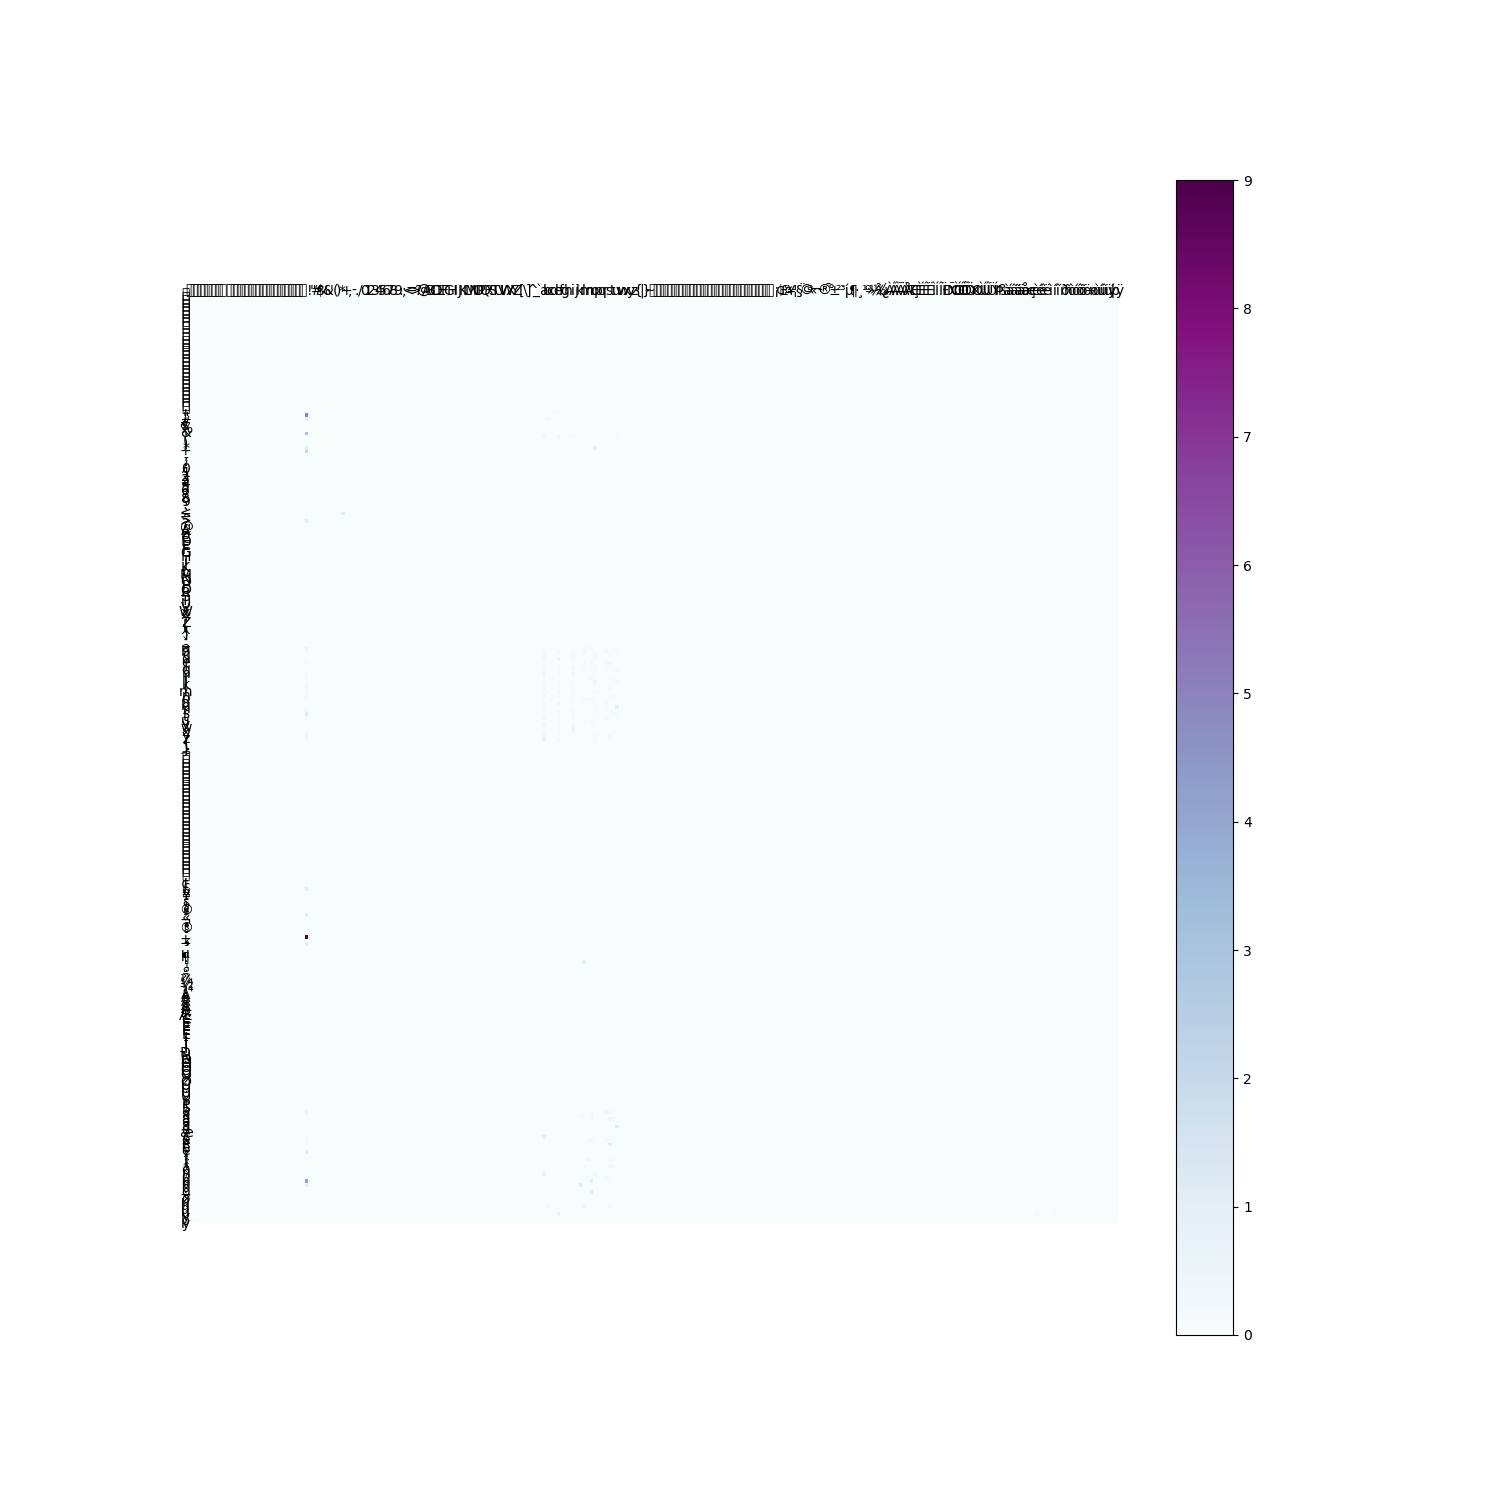
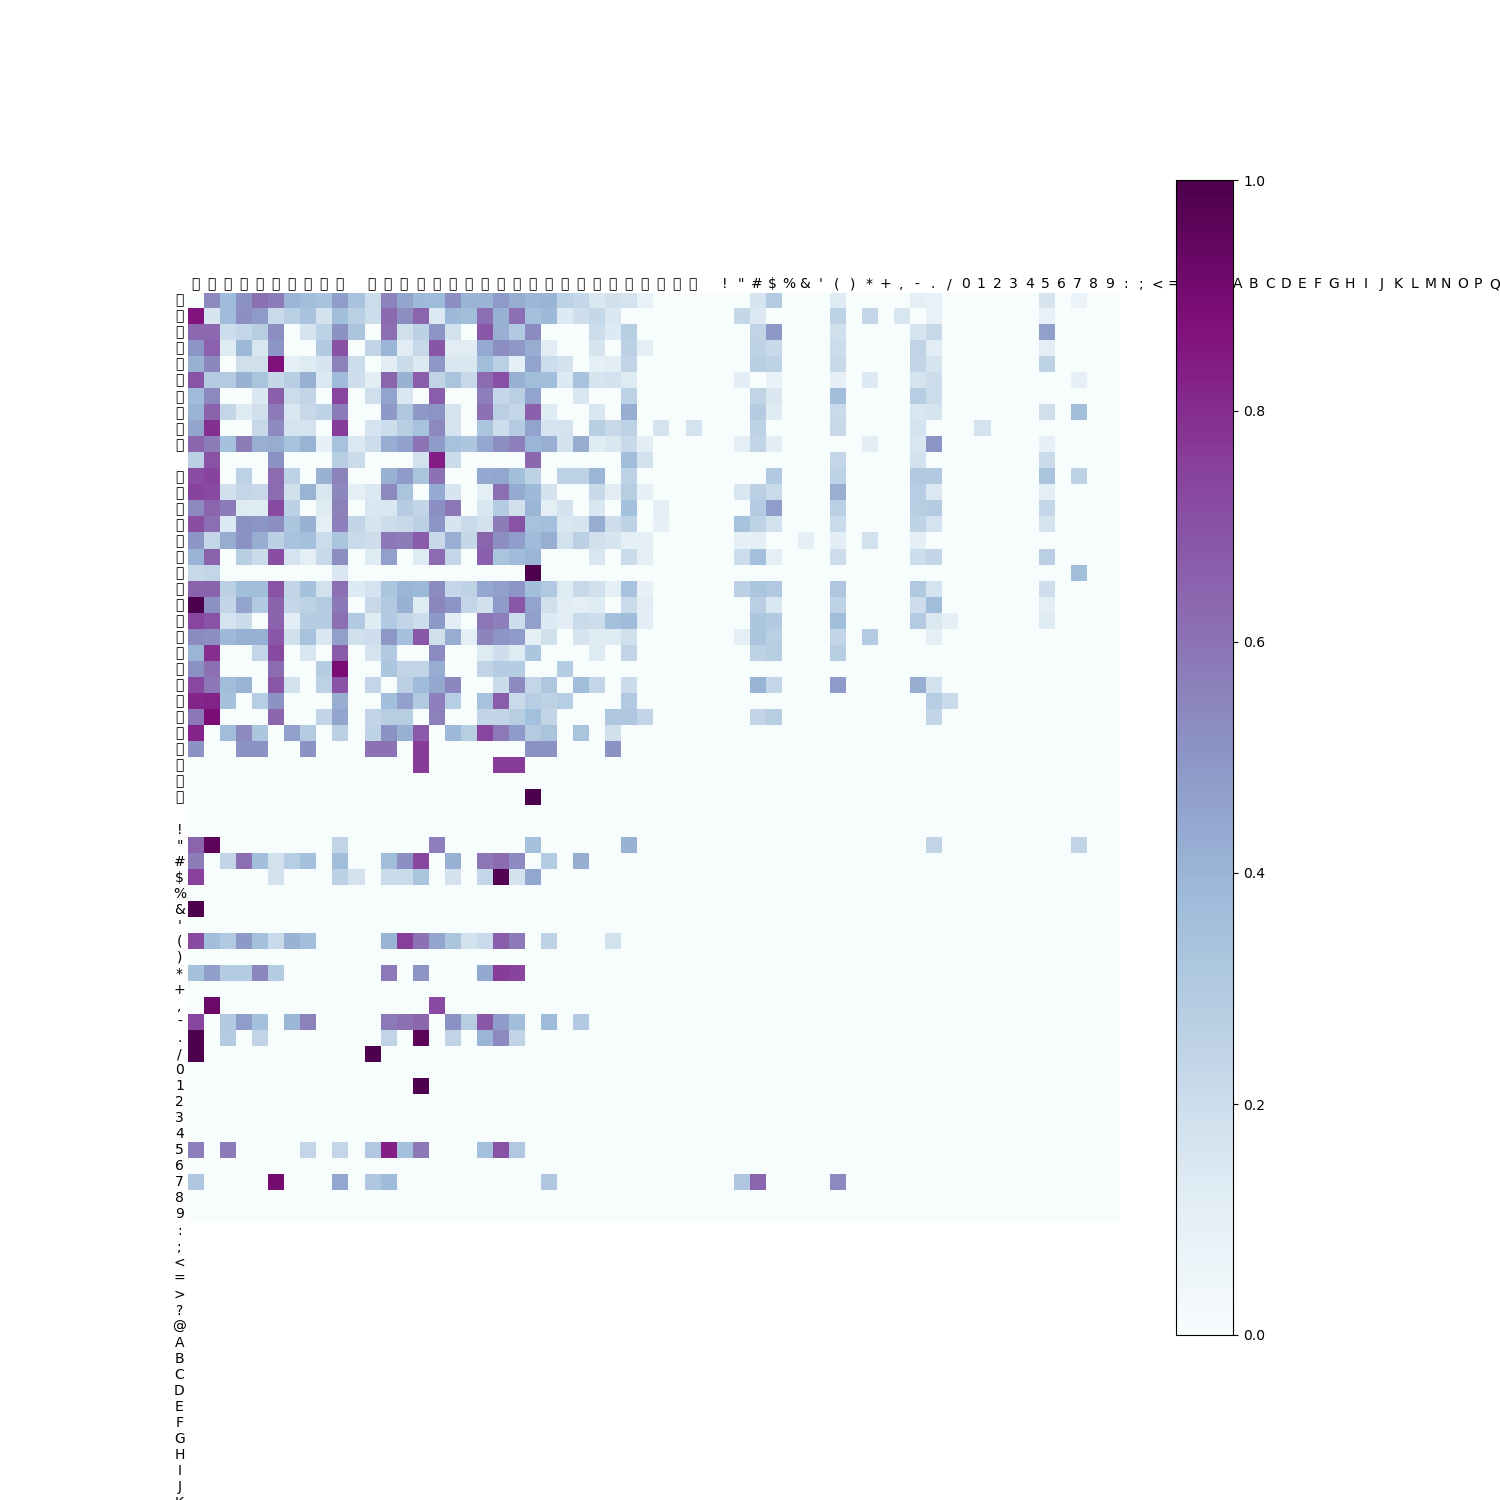
zoom

diff --git a/visualization/matrix_visualization/matrix_visualization_zoomed.py b/visualization/matrix_visualization/matrix_visualization_zoomed.py
@@ -20,7 +20,7 @@ for language in conf_training.dic_api.keys():
 
     # Affichage des couleurs représentant les fréquences
     plt.figure(figsize=(15, 15))
-    plt.imshow(matrix, interpolation='nearest', cmap='BuPu')
+    plt.imshow(submatrix, interpolation='nearest', cmap='BuPu')
     plt.axis('off')
 
 
